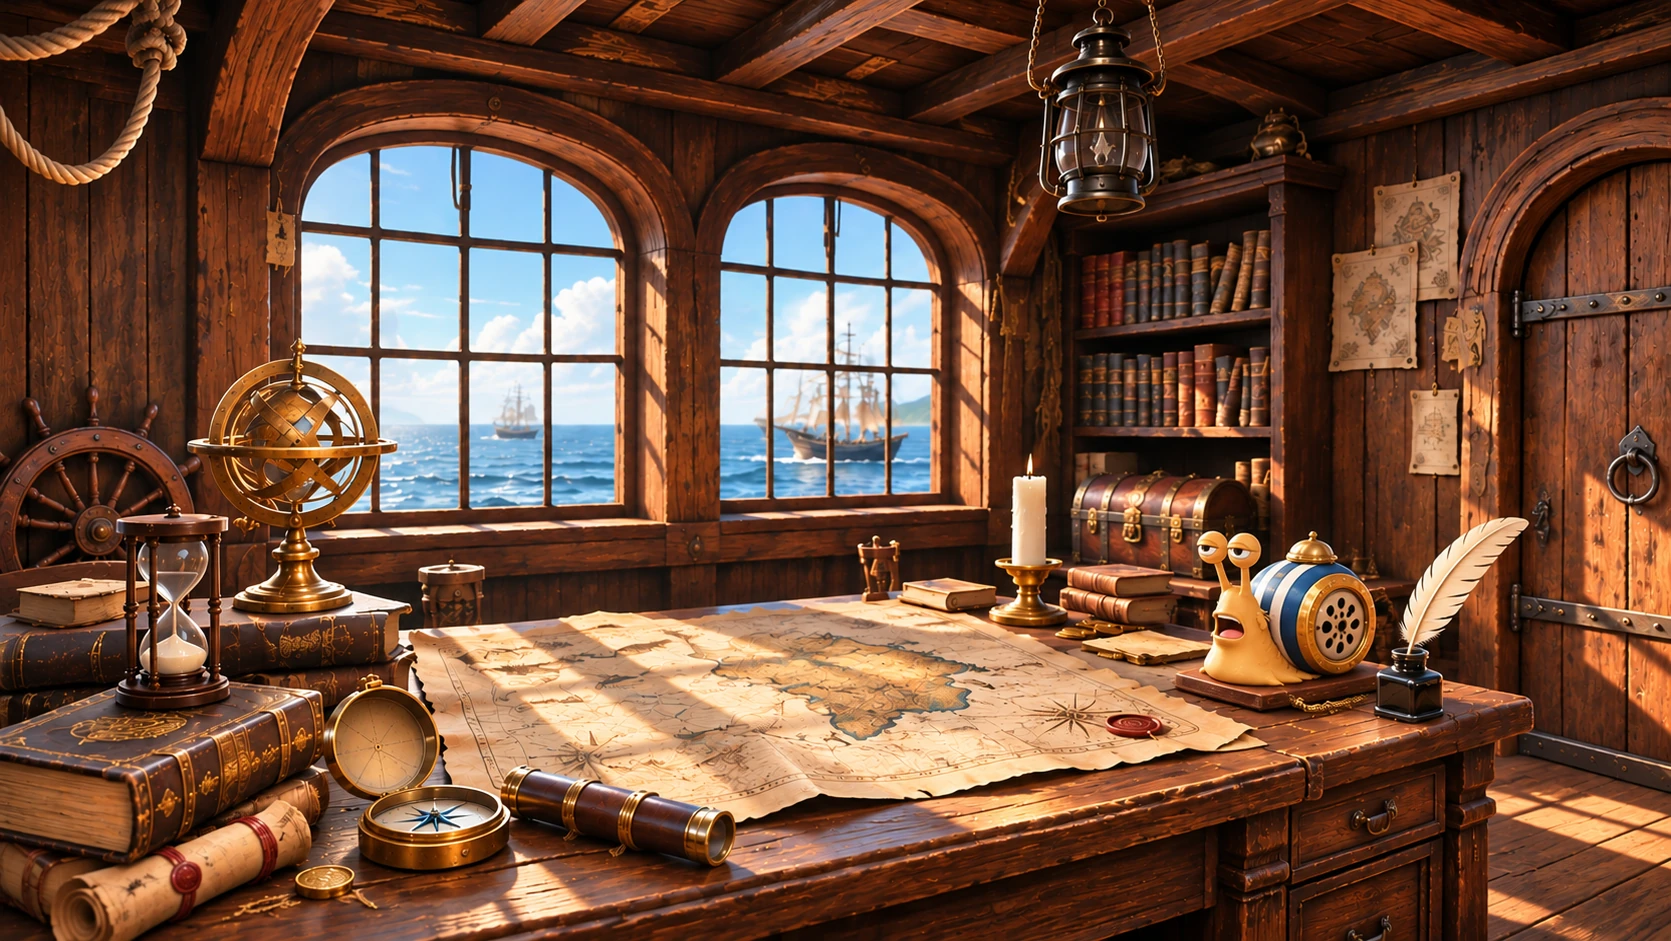
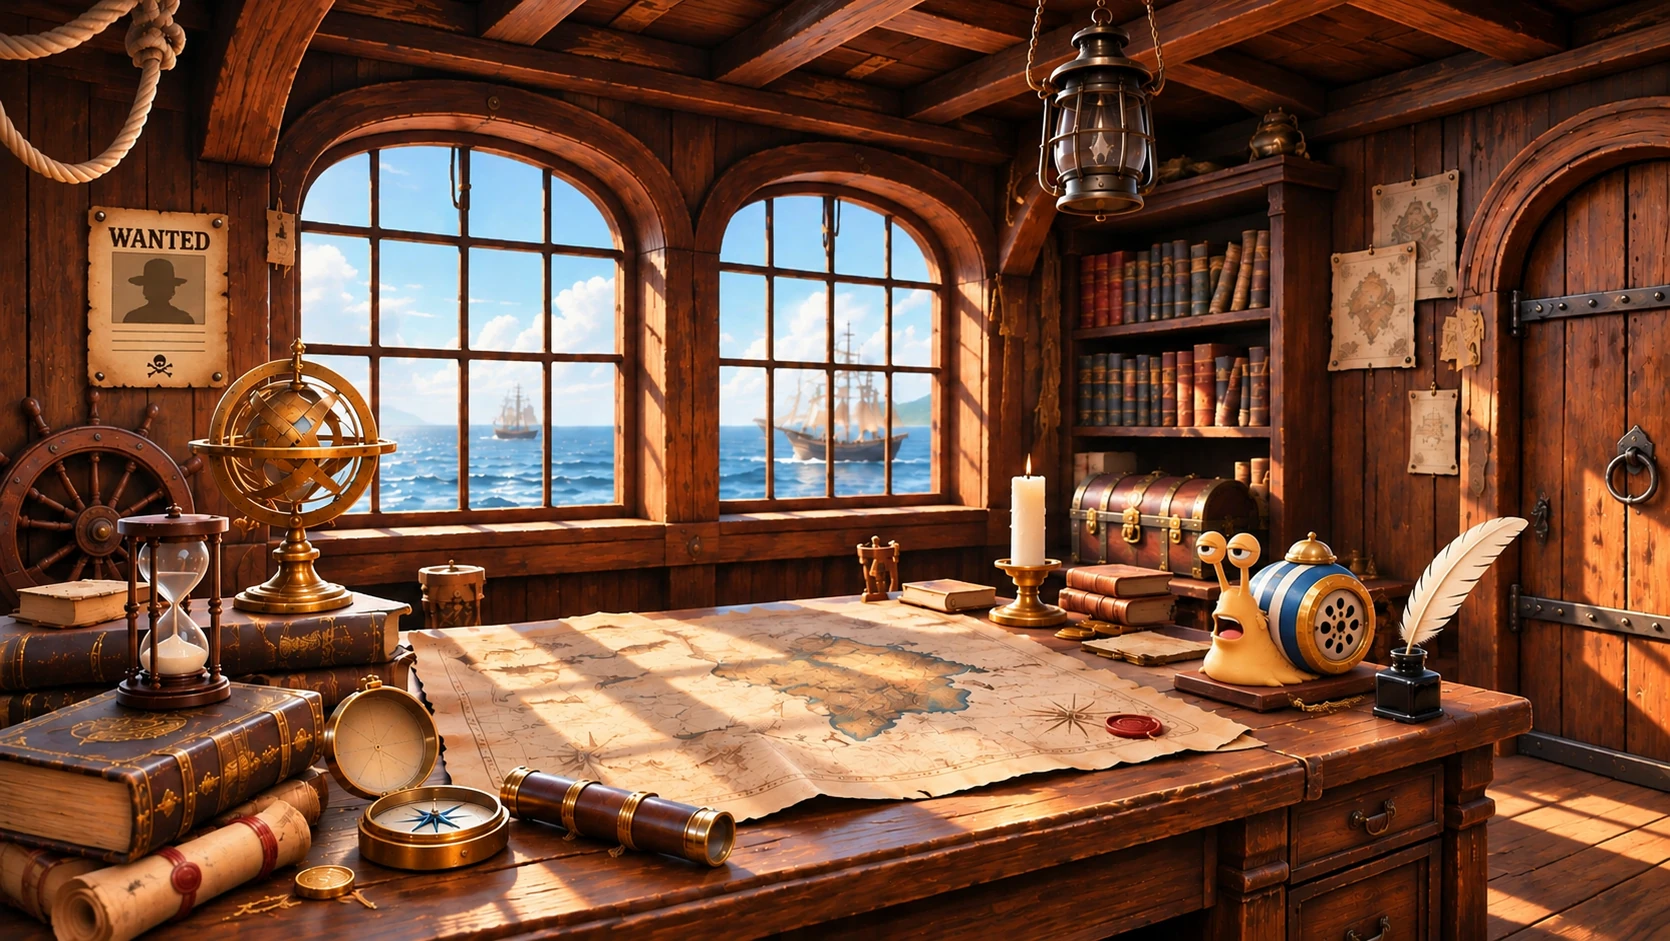
Update cabin wanted poster

diff --git a/cabin/index.html b/cabin/index.html
@@ -790,7 +790,8 @@ body { overflow: hidden; }
 
 .captain-top-left { display:flex; align-items:center; gap:12px; }
 
-.captain-profile-toggle { border:0; background:transparent; color:#f3d18b; font:inherit; font-size:15px; padding:14px 8px; cursor:pointer; }
+.captain-profile-toggle { position:absolute; left:5.2%; top:22%; width:8.6%; height:19.3%; border:0; background:transparent; padding:0; cursor:pointer; }
+.cabin.dark .captain-profile-toggle { left:6.1%; top:21.5%; width:8.1%; height:19.1%; }
 
 .captain-profile-toggle:hover { color:#fff0c7; }
 
@@ -1090,12 +1091,13 @@ html, body, body *, body *::before, body *::after {
   <!-- 선장 프로필 및 관리자 로그인 UI -->
 
   <div class="captain-ui is-collapsed" id="captain-ui">
+    <button class="captain-profile-toggle" id="captain-profile-toggle" type="button" aria-expanded="false" aria-controls="captain-profile" aria-label="벽에 붙은 수배서 보기"></button>
 
     <nav class="captain-topbar" aria-label="선장실 메뉴">
 
         <div class="captain-top-left">
 
-          <button class="captain-profile-toggle" id="captain-profile-toggle" type="button" aria-expanded="false" aria-controls="captain-profile" data-hint="선장 프로필 펼치기">선장 프로필</button>
+          
 
           <a class="captain-edit" id="captain-edit" href="/profile/settings/" hidden data-hint="프로필 수정하기">프로필 수정</a>
 
@@ -1503,7 +1505,7 @@ if (window.matchMedia(
 
   }
 
-  toggle.addEventListener("click", () => showPoster(true));
+  toggle.addEventListener("click", () => showPoster(panel.classList.contains("is-collapsed")));
 
   posterPanel.addEventListener("click", () => showPoster(false));
 
